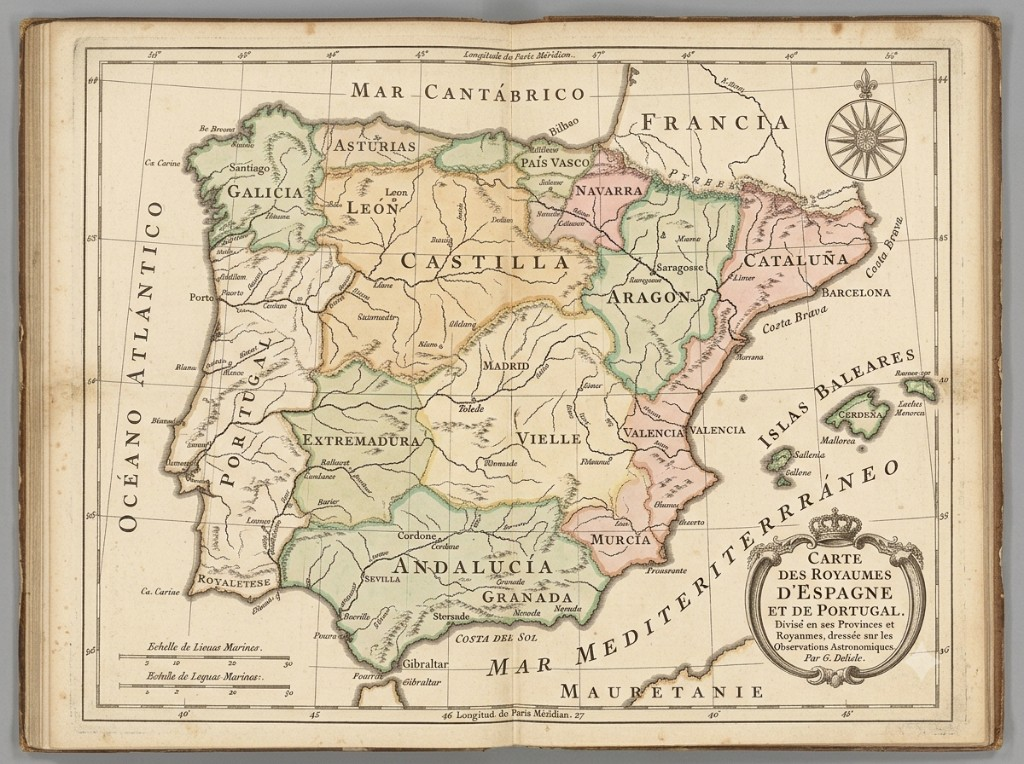
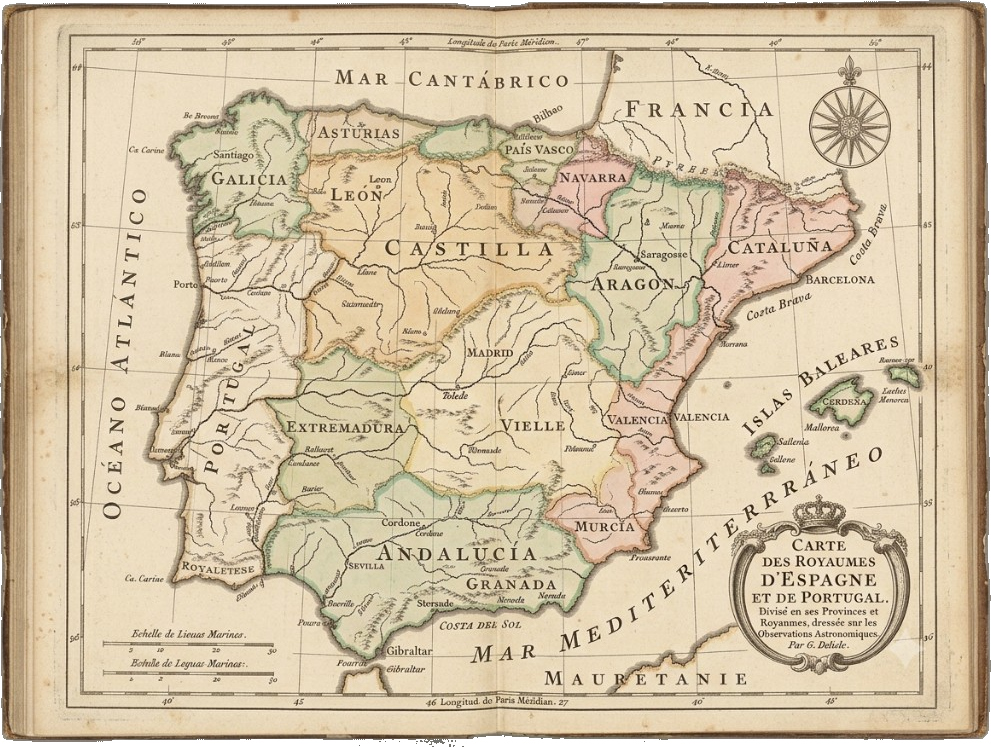
Improve mobile layout stability and trim atlas map borders.
Lock pinch zoom, track visible viewport height, and add a settings refit control; crop gray matte from level atlas plates and realign markers.

diff --git a/src/screens/Levels.tsx b/src/screens/Levels.tsx
@@ -49,52 +49,52 @@ const ATLAS_ROUTES: Record<
   /* Venezuela — placed from the marked atlas guide. */
   VE: {
     normal: [
-      [28, 28], // 1 Maracaibo (further west)
-      [38, 30], // 2 east of Maracaibo
-      [52, 28], // 3 Caracas coast
-      [62, 28], // 4 Cumaná north-central
-      [72, 30], // 5 Cumaná east / Orinoco delta
+      [27.3, 26.9], // 1 Maracaibo (further west)
+      [37.7, 28.9], // 2 east of Maracaibo
+      [52.1, 26.9], // 3 Caracas coast
+      [62.5, 26.9], // 4 Cumaná north-central
+      [72.8, 28.9], // 5 Cumaná east / Orinoco delta
     ],
     hard: [
-      [32, 46], // 6 Los Llanos west
-      [48, 48], // 7 Los Llanos center
-      [54, 62], // 8 south-central (lower)
-      [64, 52], // 9 Guayana west
-      [74, 56], // 10 Guayana east
+      [31.5, 45.3], // 6 Los Llanos west
+      [48, 47.4], // 7 Los Llanos center
+      [54.2, 61.7], // 8 south-central (lower)
+      [64.5, 51.4], // 9 Guayana west
+      [74.8, 55.5], // 10 Guayana east
     ],
   },
   /* Spain — placed from the marked atlas guide. */
   ES: {
     normal: [
-      [33, 25], // 1 Galicia (Santiago)
-      [43, 23], // 2 Asturias
-      [50, 35], // 3 Castilla (north / Burgos)
-      [60, 28], // 4 Aragón (near Pyrenees)
-      [71, 30], // 5 Cataluña (coast)
+      [32.5, 23.8], // 1 Galicia (Santiago)
+      [42.8, 21.8], // 2 Asturias
+      [50.1, 34.1], // 3 Castilla (north / Burgos)
+      [60.4, 26.9], // 4 Aragón (near Pyrenees)
+      [71.7, 28.9], // 5 Cataluña (coast)
     ],
     hard: [
-      [37, 52], // 6 Extremadura
-      [51, 52], // 7 south of Madrid (Vielle / New Castile)
+      [36.6, 51.4], // 6 Extremadura
+      [51.1, 51.4], // 7 south of Madrid (Vielle / New Castile)
       [47, 78], // 8 Andalucía (Sevilla–Córdoba)
-      [64, 58], // 9 Murcia
-      [79, 49], // 10 Islas Baleares (Mallorca)
+      [64.5, 57.6], // 9 Murcia
+      [80, 48.4], // 10 Islas Baleares (Mallorca)
     ],
   },
   /* Continental US: avoid Canada, Mexico, deep ocean */
   EU: {
     normal: [
-      [20, 30], // Northwest
-      [34, 28], // Northern plains
-      [48, 30], // Upper Midwest
-      [62, 32], // Great Lakes
-      [76, 30], // Northeast
+      [19.1, 28.9], // Northwest
+      [33.5, 26.9], // Northern plains
+      [48, 28.9], // Upper Midwest
+      [62.5, 31], // Great Lakes
+      [76.9, 28.9], // Northeast
     ],
     hard: [
-      [18, 50], // California
-      [30, 56], // Southwest
-      [44, 60], // Texas
-      [58, 62], // Deep South
-      [70, 58], // Southeast / Florida approach
+      [17, 49.4], // California
+      [29.4, 55.5], // Southwest
+      [43.9, 59.6], // Texas
+      [58.3, 61.7], // Deep South
+      [70.7, 57.6], // Southeast / Florida approach
     ],
   },
 }

diff --git a/src/index.css b/src/index.css
@@ -7,6 +7,8 @@
    ========================================================================== */
 
 :root {
+  /* Updated by viewport.ts; fallback for first paint. */
+  --app-height: 100dvh;
   /* Aged paper. Unity cream (#D7D3CB) is the midpoint. */
   --papel: #e2d6bb;
   --papel-claro: #f1e8d2;
@@ -43,14 +45,21 @@
   box-sizing: border-box;
 }
 
+html {
+  -webkit-text-size-adjust: 100%;
+  text-size-adjust: 100%;
+}
+
 html,
 body,
 #root {
   height: 100%;
+  min-height: var(--app-height);
 }
 
 body {
   margin: 0;
+  overscroll-behavior: none;
   font-family: var(--texto);
   font-size: 1.05rem;
   color: var(--tinta);
@@ -1031,8 +1040,8 @@ button {
 }
 
 .atlas-plate {
-  /* Exact atlas PNG aspect (1024×764) so % markers match landmasses. */
-  --atlas-ratio: 1.3403;
+  /* Exact atlas PNG aspect (991×747 after matte crop) so % markers match landmasses. */
+  --atlas-ratio: 1.3266;
   --atlas-height: min(62vh, 34rem);
   position: relative;
   height: var(--atlas-height);
@@ -1040,7 +1049,7 @@ button {
   flex-shrink: 0;
   margin: 0 auto;
   overflow: hidden;
-  background: #d8c7a4;
+  background: transparent;
 }
 
 .atlas-map {
@@ -3208,6 +3217,16 @@ button {
 /* ---------- Mobile -------------------------------------------------------- */
 
 @media (max-width: 40rem) {
+  html {
+    touch-action: manipulation;
+  }
+
+  input,
+  select,
+  textarea {
+    font-size: max(1rem, 16px);
+  }
+
   .screen {
     width: 100%;
     padding: 0.75rem 0.9rem 2.2rem;
@@ -3314,8 +3333,8 @@ button {
     width: 100%;
     max-width: none;
     min-height: 0;
-    height: 100svh;
-    max-height: 100svh;
+    height: var(--app-height);
+    max-height: var(--app-height);
     margin: 0;
     padding: 0;
     padding-bottom: env(safe-area-inset-bottom, 0px);

diff --git a/src/lib/viewport.ts b/src/lib/viewport.ts
@@ -1,0 +1,35 @@
+/** Layout refit for mobile browsers (Safari bar, keyboard, rotation). */
+export const REFIT_EVENT = 'mh:refit'
+
+function readViewportHeight(): number {
+  return Math.round(window.visualViewport?.height ?? window.innerHeight)
+}
+
+/** Sync CSS viewport height and notify layout listeners (board, etc.). */
+export function refitLayout(options?: { scrollTop?: boolean }) {
+  const height = readViewportHeight()
+  document.documentElement.style.setProperty('--app-height', `${height}px`)
+  window.dispatchEvent(new CustomEvent(REFIT_EVENT))
+
+  if (options?.scrollTop !== false) {
+    window.scrollTo(0, 0)
+    document.getElementById('main-content')?.scrollTo?.(0, 0)
+  }
+}
+
+export function initViewportRefit() {
+  refitLayout({ scrollTop: false })
+
+  const onChange = () => refitLayout()
+  window.addEventListener('orientationchange', onChange)
+  window.addEventListener('resize', onChange)
+  window.visualViewport?.addEventListener('resize', onChange)
+  window.visualViewport?.addEventListener('scroll', onChange)
+
+  return () => {
+    window.removeEventListener('orientationchange', onChange)
+    window.removeEventListener('resize', onChange)
+    window.visualViewport?.removeEventListener('resize', onChange)
+    window.visualViewport?.removeEventListener('scroll', onChange)
+  }
+}

diff --git a/src/lib/i18n.ts b/src/lib/i18n.ts
@@ -144,6 +144,10 @@ const es = {
   announcedResumed: 'Partida reanudada',
   announcedVictory: 'Nivel superado',
   announcedDefeat: 'Se acabó el tiempo',
+  display: 'Pantalla',
+  fitScreen: 'Ajustar pantalla',
+  fitScreenHelp:
+    'Recalcula el tamaño del juego en este móvil. Úsalo si algo se ve cortado o demasiado grande tras girar el teléfono.',
   accessibility: 'Accesibilidad',
   timeAssist: 'Tiempo en los niveles',
   timeAssistDefault: 'Normal',
@@ -494,6 +498,10 @@ const en: Record<keyof typeof es, string> = {
   announcedResumed: 'Match resumed',
   announcedVictory: 'Level complete',
   announcedDefeat: "Time's up",
+  display: 'Display',
+  fitScreen: 'Fit screen',
+  fitScreenHelp:
+    'Recalculates the layout for this phone. Use it if something looks cropped or too large after rotating.',
   accessibility: 'Accessibility',
   timeAssist: 'Level timer',
   timeAssistDefault: 'Normal',

diff --git a/src/screens/Settings.tsx b/src/screens/Settings.tsx
@@ -13,6 +13,7 @@ import {
   type TimeAssist,
 } from '../lib/save'
 import { setMusicVolume, playSound, syncMuteToMusic } from '../lib/audio'
+import { refitLayout } from '../lib/viewport'
 import { MuteButton } from '../components/MuteButton'
 import { useT } from '../lib/i18n'
 import type { Language } from '../types'
@@ -102,6 +103,21 @@ export function Settings() {
       </section>
 
       <CloudAccount />
+
+      <section className="settings-group">
+        <h2>{t('display')}</h2>
+        <p className="settings-help">{t('fitScreenHelp')}</p>
+        <button
+          type="button"
+          className="btn-secondary"
+          onClick={() => {
+            playSound('button')
+            refitLayout()
+          }}
+        >
+          {t('fitScreen')}
+        </button>
+      </section>
 
       <section className="settings-group">
         <h2>{t('accessibility')}</h2>

diff --git a/src/components/Board.tsx b/src/components/Board.tsx
@@ -2,6 +2,7 @@ import { useEffect, useRef, useState, type CSSProperties } from 'react'
 import type { BoardTile } from '../types'
 import { useT } from '../lib/i18n'
 import type { FogPhase } from '../lib/useMatch'
+import { REFIT_EVENT } from '../lib/viewport'
 import { Card } from './Card'
 
 interface Props {
@@ -94,10 +95,12 @@ export function Board({
     const observer = new ResizeObserver(measure)
     observer.observe(shell)
     window.addEventListener('orientationchange', measure)
+    window.addEventListener(REFIT_EVENT, measure)
     window.visualViewport?.addEventListener('resize', measure)
     return () => {
       observer.disconnect()
       window.removeEventListener('orientationchange', measure)
+      window.removeEventListener(REFIT_EVENT, measure)
       window.visualViewport?.removeEventListener('resize', measure)
     }
   }, [navColumns, navRows, gapRatio])

diff --git a/src/App.tsx b/src/App.tsx
@@ -17,6 +17,7 @@ import {
 } from './lib/audio'
 import { LiveRegion } from './components/LiveRegion'
 import { SkipLink } from './components/SkipLink'
+import { initViewportRefit } from './lib/viewport'
 import { Intro } from './screens/Intro'
 import { Menu } from './screens/Menu'
 import { Levels } from './screens/Levels'
@@ -38,6 +39,8 @@ export default function App() {
   }, [language])
 
   useEffect(() => initCloudSync(), [])
+
+  useEffect(() => initViewportRefit(), [])
 
   useEffect(() => {
     const unlock = () => unlockAudio()

diff --git a/index.html b/index.html
@@ -4,7 +4,7 @@
     <meta charset="UTF-8" />
     <meta
       name="viewport"
-      content="width=device-width, initial-scale=1.0, viewport-fit=cover"
+      content="width=device-width, initial-scale=1, maximum-scale=1, user-scalable=no, viewport-fit=cover"
     />
     <meta name="theme-color" content="#e8dcc0" />
     <meta name="apple-mobile-web-app-capable" content="yes" />
